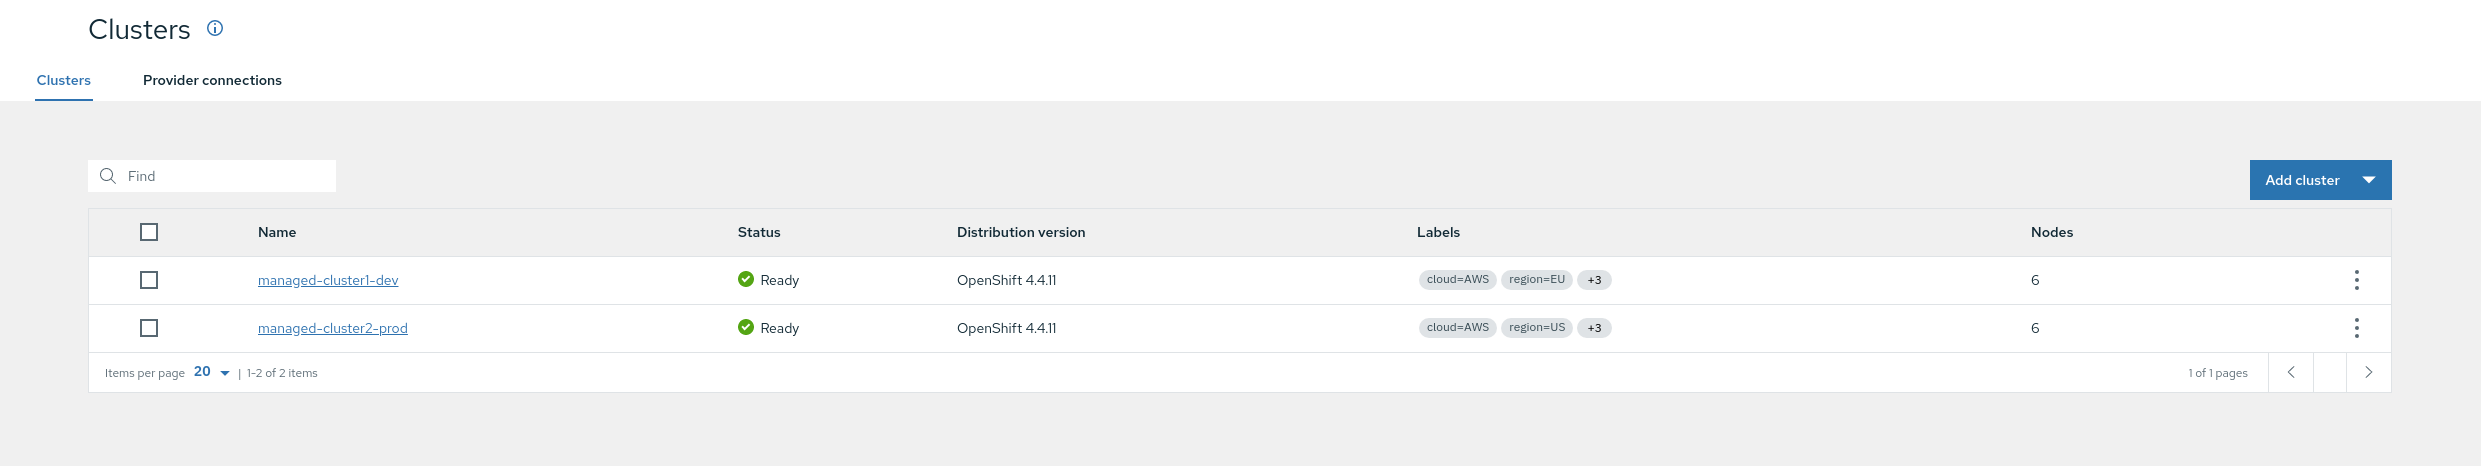
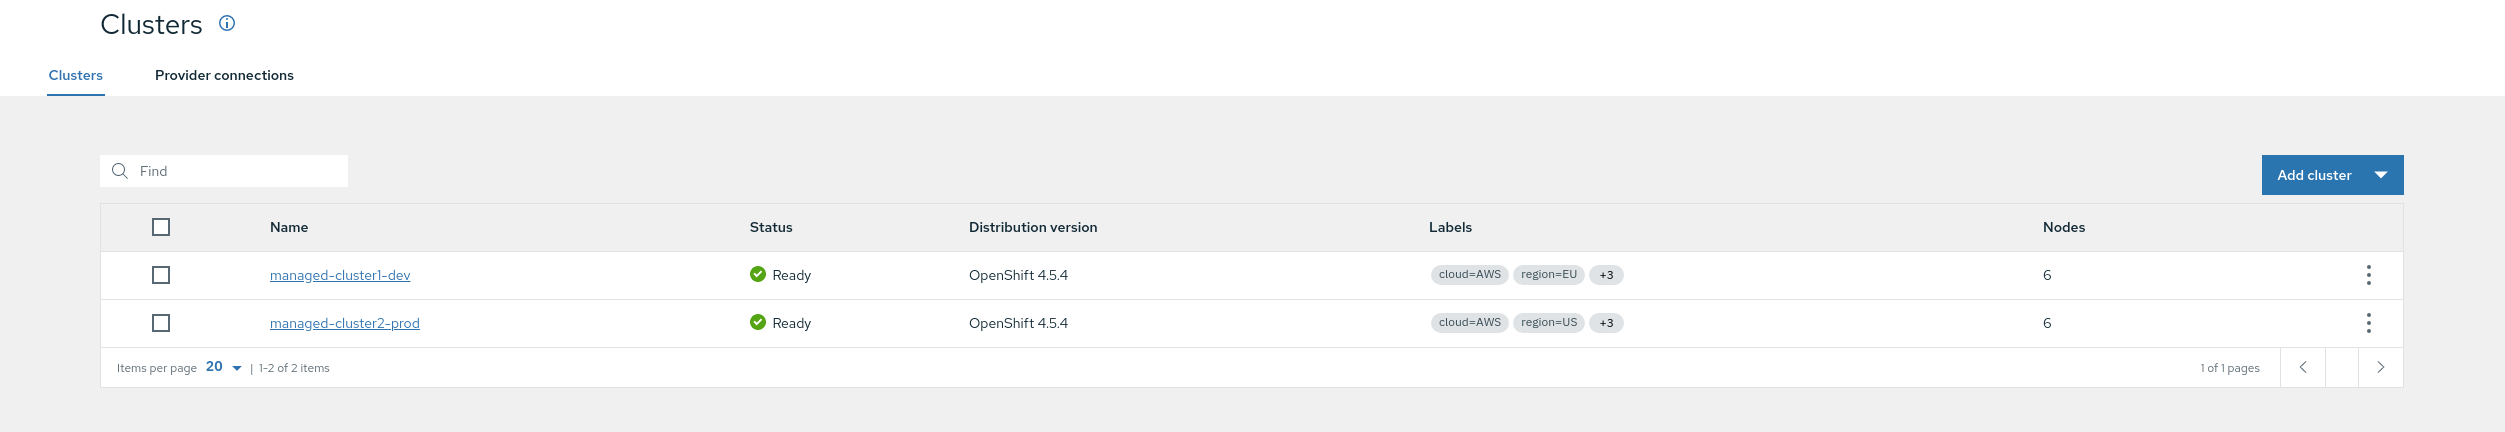
updated to release 4.5.4

diff --git a/introduction-to-gitops-and-policies/00_environment_overview.md b/introduction-to-gitops-and-policies/00_environment_overview.md
@@ -12,16 +12,16 @@ You can follow the official docs in order to deploy OpenShift as well as ACM, th
 
 **OpenShift Clusters**
 
-* 1 x HUB Cluster Running OCP 4.4.11
+* 1 x HUB Cluster Running OCP 4.5.4
   * ACM Version Used: 2.0.0
-* 1 x Managed Cluster Running OCP 4.4.11
+* 1 x Managed Cluster Running OCP 4.5.4
   * Cluster Name: managed-cluster1-dev
   * Cluster Labels: 
     * cloud: AWS
     * environment: **dev**
     * Additional labels
       * region: EU
-* 1 x Managed Cluster Running OCP 4.4.11
+* 1 x Managed Cluster Running OCP 4.5.4
   * Cluster Name: managed-cluster2-prod
   * Cluster Labels:
     * cloud: AWS
